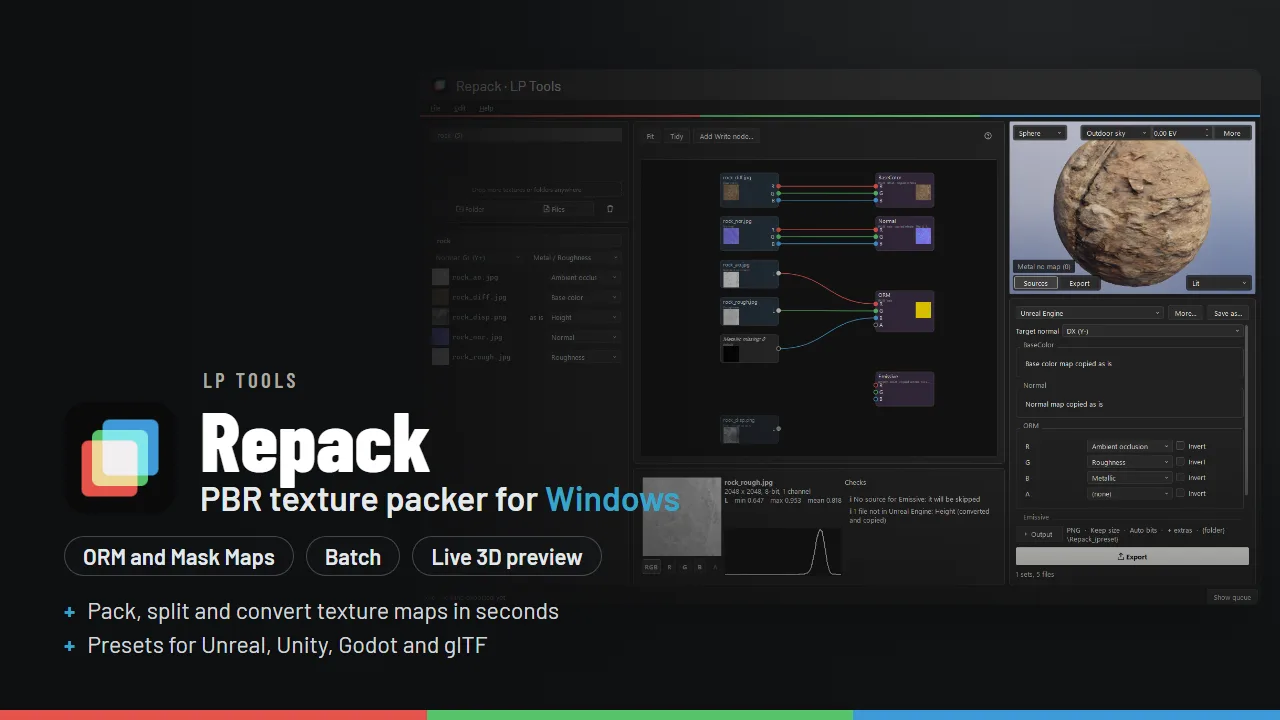
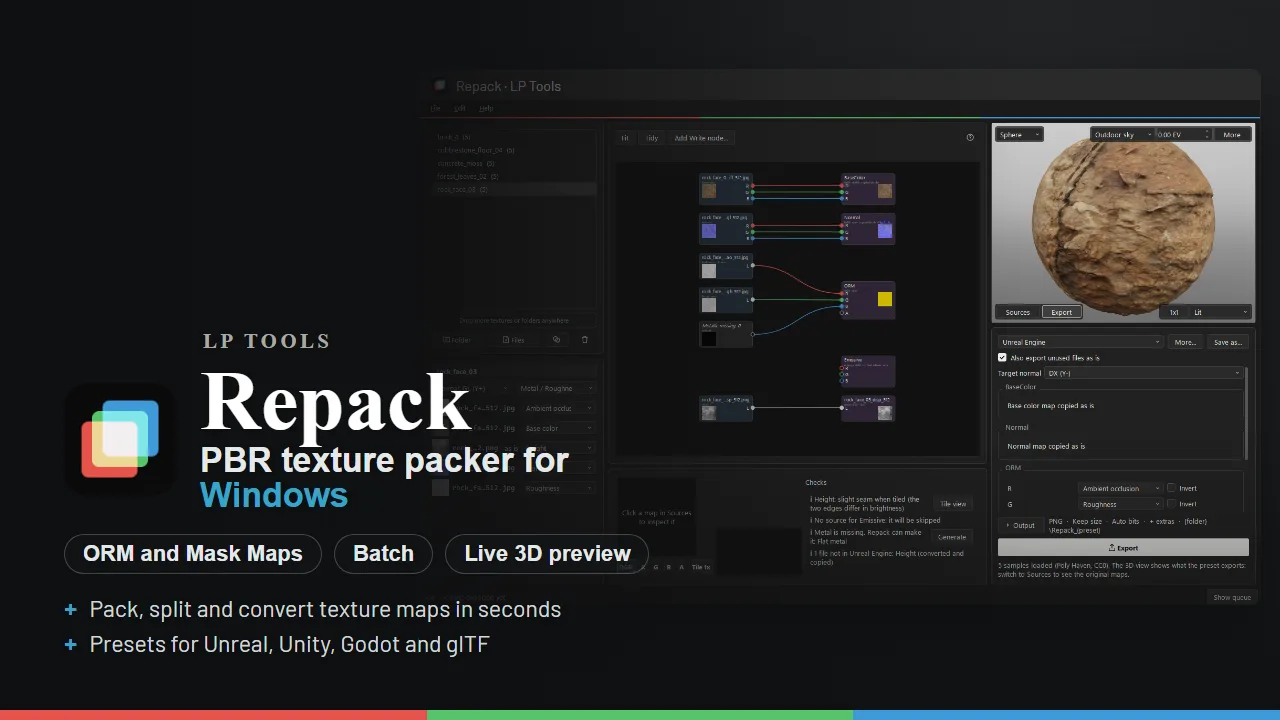
Repack 0.9.10: blend material docs and screenshots, refreshed art, version.json

diff --git a/_docs/repack.md b/_docs/repack.md
@@ -2,7 +2,7 @@
 layout: doc
 title: Repack Documentation, PBR Texture Packer for Windows
 description: "Get started with Repack: drop in texture folders, pick a preset for Unreal, Unity, Godot or glTF, check the 3D preview and export packed ORM and Mask Maps."
-date: 2026-10-18
+date: 2026-10-20
 tool: repack
 ---
 
@@ -30,7 +30,7 @@ Without a license key Repack runs as a demo: you can load textures, use the grap
 
 ## Getting started
 
-1. Drag a folder of textures, or the image files themselves, onto the window. You can also use **Folder** or **Files** on the left, or the **A** (folder) and **S** (files) keys. New here? **Try a sample** on the start card loads a small rock material so you can see how it works.
+1. Drag a folder of textures, or the image files themselves, onto the window. You can also use **Folder** or **Files** on the left, or the **A** (folder) and **S** (files) keys. New here? **Try a sample** on the start card loads five small Poly Haven (CC0) materials so you can see how it works; **File > Samples** loads them one at a time, and **File > Load the blend material sample** sets up a brick wall with moss over it.
 2. Repack groups the files into material sets and works out what each file is from its name. The list on the left shows one row per set, and the files of the selected set sit below it.
 3. Pick a preset on the right, for example **Unreal Engine**.
 4. Look at the graph in the middle: every file is a node, wired into the outputs the preset writes. The 3D view shows the material on a sphere.
@@ -68,21 +68,74 @@ Presets built in: Unreal Engine, Unity URP, Unity Built-in, Unity URP (Specular)
 - **Roughness and gloss, metal and specular:** converted as needed, so a specular and gloss set can feed a metal and roughness preset.
 - **Save as...** stores your changed preset under a new name. **More...** exports to several presets at once.
 - **Convert only** keeps every file as is and only changes format, size or bit depth.
+- **Switching presets keeps your extras.** A Normal blend and any generated maps (with their Write nodes and positions) move with you to the new preset, so you never have to rebuild them. If the new preset has no normal output the blend waits and comes back on a preset that has one.
 
 **Unused files.** Files the preset doesn't read, such as the height map for Unreal or an SSS map, are exported as they are by default, under their own names (converted to the format, size and bit depth you chose). The checkbox **Also export unused files as is** under the preset controls it. When it is checked, each unused file has its own Write node in the graph. If you delete one of those nodes, only that file is left out for that material, and the box shows a dash (partly checked). Ctrl+Z brings the node back, and clicking the box puts every unused file back. Unchecking the box skips them all. With Convert only the box is locked on, because every file is already converted.
+
+## Generated maps
+
+When the preset needs a map your files don't have, a bar above the graph offers to make it: **Normal from Height**, **AO from Height**, **Leave AO white**, a flat roughness or metal, and more. Nothing is made until you click. The new map shows in the graph as a dashed teal node marked "generated", with how good the result is: **good** (a close match to a real map), **fair** (approximate), **fake** (guessed from the colours, fine for stylized work) or **flat** (one value everywhere).
+
+- **From a height map:** normal, curvature and AO are good.
+- **From a normal map:** curvature is good. Height and AO are fair, because the broad shape of a surface can't be recovered from its normals.
+- **From the base colour only:** normal and height are fake, made from the brightness of the colour.
+- **Metal** is never guessed. It is a constant (0 by default) you can change.
+- **Double click** a generated node to change what it is made from, its strength and its wrapping (keep Wrap on for tiling textures). **Right click** it to use a real file instead, or remove it. A real file in the set always wins, and your source files are never changed.
+- Generated maps stay when you switch presets, and removing one also removes the Write node it came with (unless you added an op or tweak to that node). They are saved in the preset, so batch, the watch folder and the command line make them too (`--generate ao`, or `--no-generate` to switch them off).
+
+## Opening files
+
+The installer adds **Repack this folder** to the right click menu of folders and of a folder's empty background, and **Open in Repack** to image files (on Windows 11 they are under **Show more options**, or hold Shift while you right click). Select several images and they open together in one window. You can also drag a folder or files onto Repack.exe or its shortcut. Loading always works; only Export needs a license key. The portable zip adds nothing to Windows. If you switch between a per user and an all users install, the old menu items stay until that copy is uninstalled.
 
 ## The graph
 
 Each source file is a Read node with pins for its channels. Wires run to the pins of the output nodes. Drag from a pin to wire it, right click a wire to unplug it, and right click an empty spot for every node you can add (a Write node, or Levels, Clamp, Threshold, Renormalize, Resize and Invert, each followed by the channel or output it goes on; on a roughness or gloss channel the Invert node adds a line saying Rough to Gloss or Gloss to Rough), and right click a wire or a Write node to add an operation there or rename it. Conversions the preset needs also appear on their own when a file and an output disagree (roughness and gloss, metal and specular), so most of the time you never add them yourself. The wheel zooms, the middle mouse button pans, **Fit** (F) frames everything and **Tidy** lays the nodes out again. Click a node to compare before and after at the bottom. Files the preset doesn't use get a Write node of their own, wired straight from their Read node, so you can see they are exported. Delete that node to leave the file out, or right click its Read node and choose **Add Write node** to bring it back.
 
+**Tweaks.** Right click a pin on a Write node and choose **Tweak** (or double click the pin) to change that one channel: Invert, Black and White points, Gamma and Contrast, with a small before and after histogram. A small amber diamond marks a tweaked pin, and the preview and 3D view follow as you drag. Tweaks belong to the output channel, so rewiring keeps them, and they are saved in your preset. They run before any ops on the channel. Normal maps can't be tweaked, and colour maps are tweaked on their stored (sRGB) values. **Clear tweak** or Reset puts a pin back.
+
+**Metal to Specular.** When a set is metal and roughness but the preset wants specular and gloss (or the other way round), an automatic conversion node appears with two outputs on its right: **Base color** (the albedo) and **Specular** (or **Metal** for the reverse). Each goes to the Write pins that need it.
+
+## Blend materials
+
+A blend material lays one material over another by the first one's height map, for example moss that collects in the cracks of a brick wall. It is a row of its own in the materials list, after the sets. Load both materials, right click the brick and choose **Create blend using selected** (with two sets selected, the one you clicked is Material A and the other Material B), or use the blend button under the list for an empty one. Drag a set from the list onto **Material A** or **Material B** in the graph, or click the small arrow on a slot to pick one. **File > Load the blend material sample** makes one from the bundled brick and mossy ground.
+
+{% include figure.html slug="repack" name="blend" alt="A blend material: brick with moss, the three blend nodes, the sliders at the right and the result on the sphere" caption="A blend material: Material A, Material B and the Height blend node, with the sliders in a column at the right and the result in 3D." %}
+
+The graph shows three nodes: Material A (the base, its height drives the mask), Material B, and **Height blend**. The controls sit in a column to the right of the graph, and double clicking Height blend opens the same controls plus Material A and B:
+
+- **Material A** and **Material B:** any loaded set (UDIM sets cannot be blended yet).
+- **Fill from:** Low areas (the cracks fill first) or High areas (it sits on the peaks, like snow).
+- **Coverage** and **Softness:** how much of the surface Material B takes, and how hard the edge is.
+- **Use B's height** and **Strength:** B's own bumps push the edge, so it clumps over the border.
+- **Tiling:** how many times Material B repeats across A.
+- **Breakup, Scale and Reseed:** a soft, seamless noise that varies how much of B shows, so the moss thickens in some places and thins in others instead of following the cracks exactly. Breakup is the amount (0 is off), Scale is the size of the patches, and Reseed picks a different pattern. This hides the repeat of tiled textures.
+
+Both materials go through the preset selected in the main window first (generated maps, workflow, tweaks and ops), then each output is mixed, so a color tweak on the brick shows in the blend. All blends share that one preset. Colors are mixed in linear light and normals as directions. The 3D view shows a blend as exported (it has no source files of its own); switch it to **Blend mask** to see where Material B shows (white). An amber **!** on a slot means that material lacks a map the other has (the default is used); Checks lists each one. Export writes `{A}_{B}_{suffix}` files, for example `brick_4_forest_leaves_02_ORM.png`, for the preset's outputs; type in the name field to change `{A}_{B}`. The files of A and B are never written or changed. Ctrl+Z undoes creating, deleting and each session of the Height blend dialog.
+
+**Blend kits.** **File > Save blend kit** (Ctrl+Shift+S) saves your blends, or only the selected ones, to one `.repackblend` file with the preset they use. Unticked, **Include texture files** keeps the kit small: it points at the texture folders (relative to the kit when they sit under its folder, so a moved project still opens). Ticked, the textures go inside the kit, each file once, so it opens on any computer; embedded textures keep their original licenses. **File > Open blend kit**, **Recent kits**, a double click in Explorer or a drop onto the window adds every blend of the kit to the list and selects the kit's preset. A material that cannot be found shows as a red slot: **File > Locate folder** (or a double click on the slot) points every blend that uses it at its new folder. On the command line, `repack run kit.repackblend [--blend NAME] [--preset ID] [--out DIR]` exports a kit and `repack lint kit.repackblend` checks it.
+
+If the preset has no height output, the blended height is still exported as an extra file (for example `brick_4_moss_Height.png`) while **Also export unused files as is** is on, so a displacement map made by the blend isn't lost.
+
+{% include figure.html slug="repack" name="blend-mask" alt="The Blend mask view on a plane: white where the moss shows" caption="The Blend mask view: white is where Material B shows." %}
+
+## Normal blend
+
+Lay a detail normal map over the base normal, for example fabric or noise over a rock. Assign a file **Detail normal** in its dropdown (or right click an empty spot in the graph and choose **Add normal blend**, which asks for a file from any folder). A **Normal blend** node appears between the base normal and the Write node. Double click it to choose the mode (**RNM** keeps the base surface best, **Whiteout** and **UDN** are simpler and flatter on steep areas), how many times the detail repeats (**Tiling**), its **Strength**, and whether the detail file is GL or DX. The export writes one blended normal file; the detail file isn't exported on its own. Without a detail normal, the blend is skipped. On the command line: `--detail-normal`, `--blend rnm|whiteout|udn|off`, `--detail-tiling` and `--detail-strength`.
+
+The detail normal has its own **Detail normal** Read node: double click it to pick or change the file, from any folder. If the set already has a file named like a detail normal (`detailnormal`, `normaldetail`) it is found and wired to the Detail pin on its own; with none, the node says so. The **Strength** slider is on the Normal blend node itself (0 to 200 percent, 100 in the middle): click the track to jump, drag for a live result, hold Shift for fine steps. The settings dialog has the same slider.
+
+{% include figure.html slug="repack" name="normal-blend" alt="The Normal blend node with its Base and Detail pins and a Strength slider" caption="The Normal blend node: Base and Detail in, the blended normal out, with Strength on the node." %}
+
 ## The 3D view
 
 The 3D view shows the material on a sphere, a cube, a plane or a draped cloth. Drag to orbit and use the wheel to zoom.
 
-- **Sources / Export:** Sources shows your files as they are. Export shows what the preset will write, decoded the way the target engine reads it, so a wrong channel or a flipped normal shows up before you export.
+- **Sources / Export:** Repack opens on Export. Sources shows your files as they are. Export shows what the preset will write, decoded the way the target engine reads it, so a wrong channel or a flipped normal shows up before you export.
 - **Environment:** Small studio, Outdoor sky or Indoor room, with an exposure box. **More** has the Displace amount, the mid level, the mesh density, Preview height and more.
 - **Displace:** the sphere and the cloth really move with the height map. Export mode only shows height when the preset exports it, or when you turn on **Preview height**.
 - **Lit** can be switched to show one map raw, such as roughness.
+- **Keys:** **C** steps through the maps (Lit, Base color, Roughness, Metal, AO, Normal, Height and so on), **Shift+C** goes back, and **M** jumps to the lit material and back to the map you were on.
+- **Tile (1x1, 2x2, 3x3):** the button at the bottom right repeats the textures on any shape, so you can look for seams. The Inspector has a Tile chip that does the same for a single map, and the before and after view follows it.
 
 ## Output options
 
@@ -96,7 +149,7 @@ Files and folders are named with templates. The defaults are `{set}_{suffix}` an
 
 ## Checks
 
-The Checks panel under the graph points out things that usually cause trouble: mixed sizes, sizes that aren't a power of two, normal maps that aren't unit length or look like the wrong convention, metal maps with too many in-between values, a roughness or occlusion map that is constant or all white, an output with no source, and files whose kind isn't set. Some notes have a fix button.
+The Checks panel under the graph points out things that usually cause trouble: mixed sizes, sizes that aren't a power of two, normal maps that aren't unit length or look like the wrong convention, metal maps with too many in-between values, a roughness or occlusion map that is constant or all white, an output with no source, and files whose kind isn't set. A **seam check** tells you, map by map, how visible the edge would be if the texture is tiled (clean, slight or strong), with a **Tile view** button that shows that one map on a plane, tiled 2x2, with displacement off, so you can judge the seam (click it again to put the view back); maps that are unique bakes and not meant to tile can be ignored. Some notes have a fix button, such as **Generate** for a map the preset needs and your files lack.
 
 ## Queue, watch folder and UDIM
 
@@ -113,6 +166,9 @@ The Checks panel under the graph points out things that usually cause trouble: m
 | Export | E |
 | Undo, redo | Ctrl+Z, Ctrl+Y |
 | Fit the graph | F |
+| Next map in 3D, previous map | C, Shift+C |
+| Lit material in 3D, and back | M |
+| Save blend kit | Ctrl+Shift+S |
 
 Window size, panes and options are remembered. **Help > About Repack** shows the version and build date. Third party components and their licenses are listed in `NOTICES.txt` in the download.
 

diff --git a/_tools/repack.md b/_tools/repack.md
@@ -13,6 +13,7 @@ features:
 - Presets for Unreal, Unity (URP, Built-in, Specular), Godot and glTF, plus separate maps and Convert only
 - DirectX and OpenGL normal flips, roughness and gloss, metal and specular conversions
 - A node graph with a pin per channel, and a live 3D preview with real displacement
+- Blend materials: lay moss over brick by height, with sliders, and save blend kits
 - Batch whole folders on every core, UDIM tiles and a watch folder
 ---
 
@@ -29,9 +30,13 @@ Drop in a folder of maps, pick a target, and Repack writes a correctly packed, n
 - **Conversions:** DirectX to OpenGL normals, roughness to gloss, metal and roughness to specular and gloss, resize, bit depth with dithering, and PNG, TGA, JPG, TIFF, EXR or game-ready DDS output (BC7, BC5, BC4 and BC6H, with mipmaps). Reads PNG, JPG, TIFF, TGA, EXR, BMP, HDR and DDS.
 - **A node graph like Nuke's:** every file is a node with a pin per channel, wired into the outputs the preset writes. Drag a wire to change what goes where, and compare before and after on any node.
 - **A live 3D preview:** your material on a sphere, cube, plane or draped cloth, with real displacement from the height map. Switch between your sources and what the preset will export, so a wrong channel or a flipped normal shows before you export.
+- **Blend materials:** lay one material over another by its height map, such as moss in the cracks of a brick wall. Pick any two loaded materials, set coverage, softness and breakup with sliders, and Repack blends every map the preset writes and exports a new set. Save several blends as a kit, optionally with the textures inside, and pass the one file around.
+- **Normal blending:** lay a detail normal over a base normal (RNM, Whiteout or UDN) with tiling and a strength slider on the node. Generated maps and your blend stay when you switch presets.
 - **Checks:** mixed sizes, normal maps that are not unit length, a missing map for an output and more, with a fix button where it can help.
 - **Batch work:** a whole folder of sets at once on every core, several presets in one go, UDIM tiles, and a watch folder that converts new sets as they appear.
 - **Safe:** your source textures are never touched, and nothing is written until you press Export.
+
+{% include figure.html slug="repack" name="blend" alt="A blend material in Repack: brick with moss, the blend nodes, sliders and the result on a sphere" caption="A blend material: moss laid over brick by the brick's height, with the sliders at the right." %}
 
 ## Good to know
 
